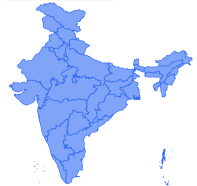
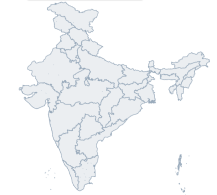
few bug fixes and changes to be in accordance with domain changes

diff --git a/src/components/gsixFeatureTile/GsixFeatureTile.tsx b/src/components/gsixFeatureTile/GsixFeatureTile.tsx
@@ -1,5 +1,4 @@
 import { FaLock, FaUnlock } from 'react-icons/fa';
-import soiImg from '../../assets/images/soi-logo.png';
 import styles from './styles.module.css';
 import { RiInformationFill } from 'react-icons/ri';
 import { AiFillPlusCircle } from 'react-icons/ai';
@@ -30,7 +29,7 @@ function GsixFeatureTile({
   const [adding, setAdding] = useState(false);
 
   function getinfoLink() {
-    const groupId = resource.id.split('/').slice(0, -1).join('-');
+    const groupId = resource.resourceGroup;
     const path = envurls.ugixCatalogue + 'dataset/' + groupId;
     return path;
   }
@@ -48,7 +47,7 @@ function GsixFeatureTile({
         itemType: 'resource',
         role: 'consumer',
       };
-      if (resource.access_status === 'Public') {
+      if (resource.accessPolicy === 'OPEN') {
         body.itemId = 'rs.iudx.io';
         body.itemType = 'resource_server';
       }
@@ -109,21 +108,21 @@ function GsixFeatureTile({
     <div className={styles.tile_container}>
       {/* content */}
       <div className={styles.tile_description_container}>
-        <div className={styles.tile_img_container}>
+        {/* <div className={styles.tile_img_container}>
           <img src={soiImg} alt="Survey Of India" className={styles.soi_img} />
-        </div>
+        </div> */}
         <TooltipWrapper content={resource.label}>
           <div className={styles.title_container}>
             <h2 className={styles.tile_title}>{resource.label}</h2>
           </div>
         </TooltipWrapper>
-        {resource.access_status === 'Public' ? (
+        {resource.accessPolicy === 'OPEN' ? (
           <div className={styles.badge}>
-            <FaUnlock /> {resource.access_status}
+            <FaUnlock /> Public
           </div>
         ) : (
           <div className={`${styles.badge} ${styles.badge_private}`}>
-            <FaLock /> {resource.access_status}
+            <FaLock /> Private
           </div>
         )}
       </div>

diff --git a/src/types/resource.ts b/src/types/resource.ts
@@ -1,23 +1,27 @@
 import { GeoJsonObj, JsonFeature } from './GeojsonType';
 
 export type Resource = {
-  _id: string;
   id: string;
-  __v: number;
-  createdAt: string;
-  dataSample: GeoJsonObj;
-  dataset: string;
+  name: string;
+  label: string;
   description: string;
-  icon: string;
+  tags: string[];
+  itemStatus: string;
+  resourceGroup: string;
+  resourceServer: string;
+  provider: string;
+  accessPolicy: 'SECURE' | 'OPEN';
+  apdURL: string;
+  resourceType: string;
+  crs: string;
+  datum: string;
+  ogcResourceInfo: {
+    ogcResourceType: string;
+    geometryType: string;
+  };
+  location: JsonFeature;
+  dataSample: GeoJsonObj;
   instance: string;
   itemCreatedAt: string;
-  itemStatus: string;
-  label: string;
-  location: JsonFeature;
-  name: string;
-  ogc: string;
-  provider: string;
-  resourceType: string;
-  updatedAt: string;
-  access_status: 'Private' | 'Public';
+  ownerUserId: string;
 };

diff --git a/src/components/basemaps/BaseMaps.tsx b/src/components/basemaps/BaseMaps.tsx
@@ -30,7 +30,7 @@ function BaseMaps() {
         }) as VectorSource;
         const newOgcLayer = new VectorImageLayer({
           source: vectorSource,
-          style: ogcLayerStyle('#2c67f2'),
+          style: ogcLayerStyle('#99aabb'),
           declutter: true,
         });
         ogcLayer.current = newOgcLayer;
@@ -125,7 +125,7 @@ function BaseMaps() {
                     <img src={ogcImg} alt="osmpreview" height={26} width={26} />
                   </span>
                 </span>
-                OGC Layer
+                Basic Map
               </button>
             </div>
             {/* <button>Bharat Map</button> */}

diff --git a/src/lib/openLayers.ts b/src/lib/openLayers.ts
@@ -218,6 +218,19 @@ const openLayerMap = {
         callback(event);
       }
     });
+    this.draw.on('drawabort', () => {
+      if (this.tooltipElement) {
+        this.tooltipElement.remove();
+        this.tooltipElement = null;
+      }
+      if (this.measureTooltip) {
+        this.measureTooltip.dispose();
+        this.measureTooltip = null;
+      }
+      if (drawChangeListener) {
+        unByKey(drawChangeListener);
+      }
+    });
   },
 
   addMarkerFeature(source: VectorSource, callback?: () => void) {

diff --git a/src/pages/canvas/Canvas.tsx b/src/pages/canvas/Canvas.tsx
@@ -59,7 +59,7 @@ function Canvas({ profileData }: { profileData: UserProfile | undefined }) {
         itemType: 'resource',
         role: 'consumer',
       };
-      if (resource.access_status === 'Public') {
+      if (resource.accessPolicy === 'OPEN') {
         body.itemId = 'rs.iudx.io';
         body.itemType = 'resource_server';
       }

diff --git a/src/components/gsixFeatureTile/styles.module.css b/src/components/gsixFeatureTile/styles.module.css
@@ -11,7 +11,7 @@
 .tile_description_container {
   flex: 1;
   display: grid;
-  grid-template-columns: min-content minmax(calc(100% - 10rem), 1fr) min-content;
+  grid-template-columns: minmax(calc(100% - 10rem), 1fr) min-content;
   gap: 0.5rem;
   align-items: center;
   max-width: calc(100% - 8rem);

diff --git a/src/lib/layerStyle.ts b/src/lib/layerStyle.ts
@@ -86,7 +86,7 @@ export function ogcLayerStyle(color: string) {
       color: color,
     }),
     fill: new Fill({
-      color: color + opacity,
+      color: color + '33',
     }),
   });
   return style;
